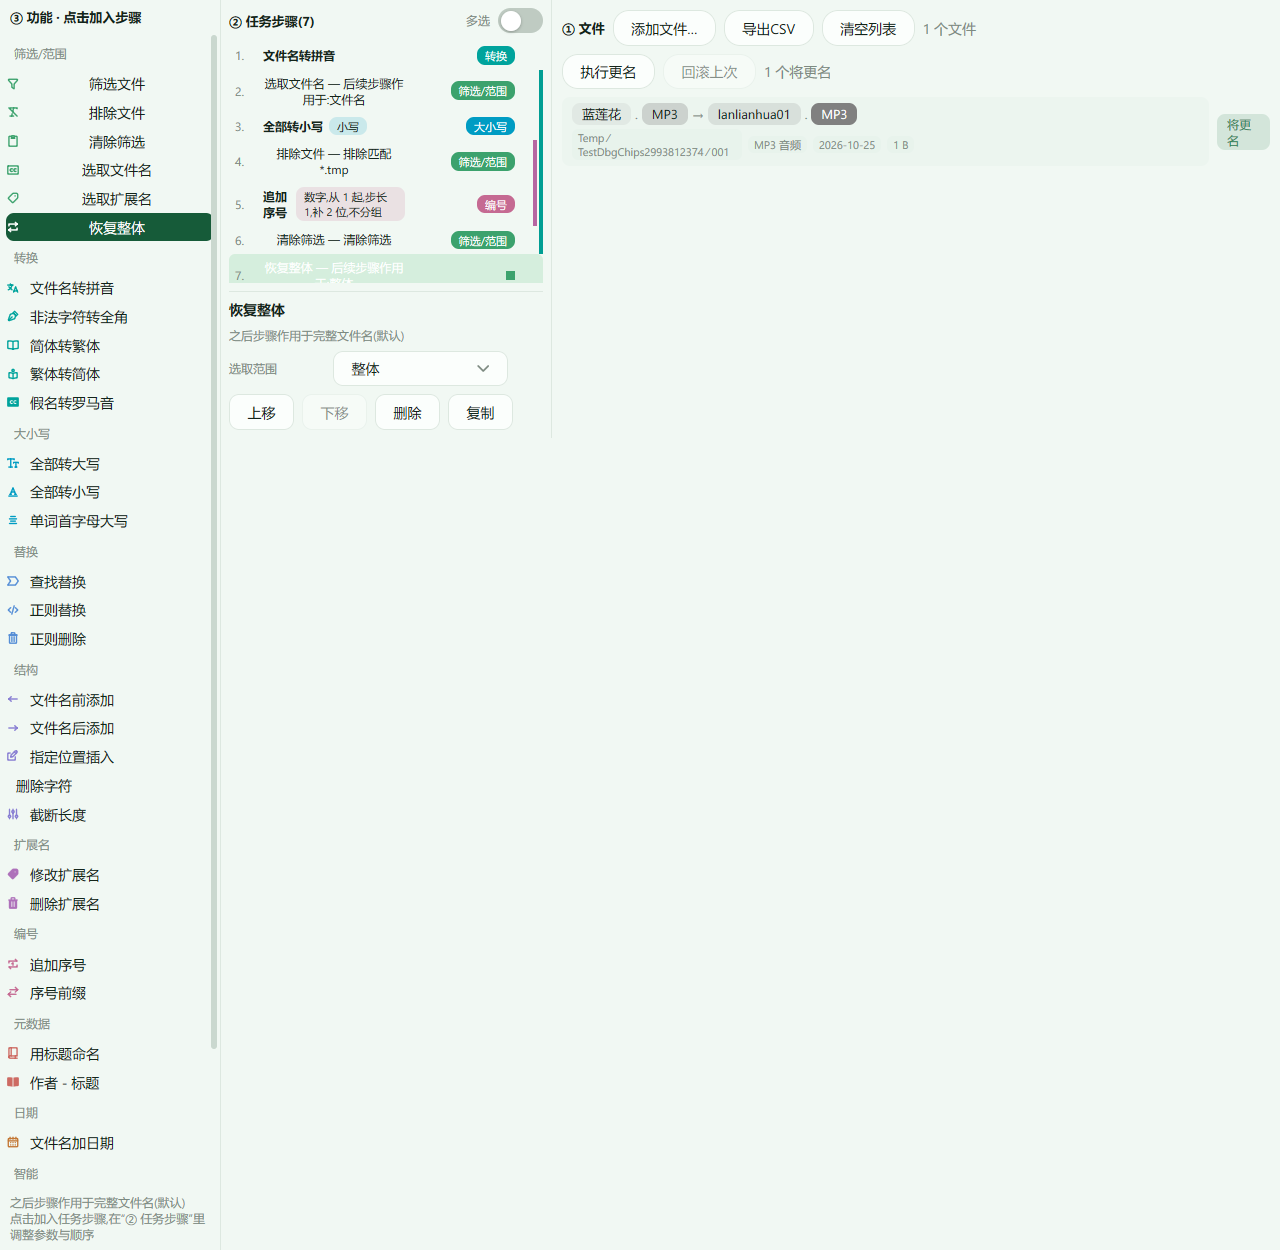
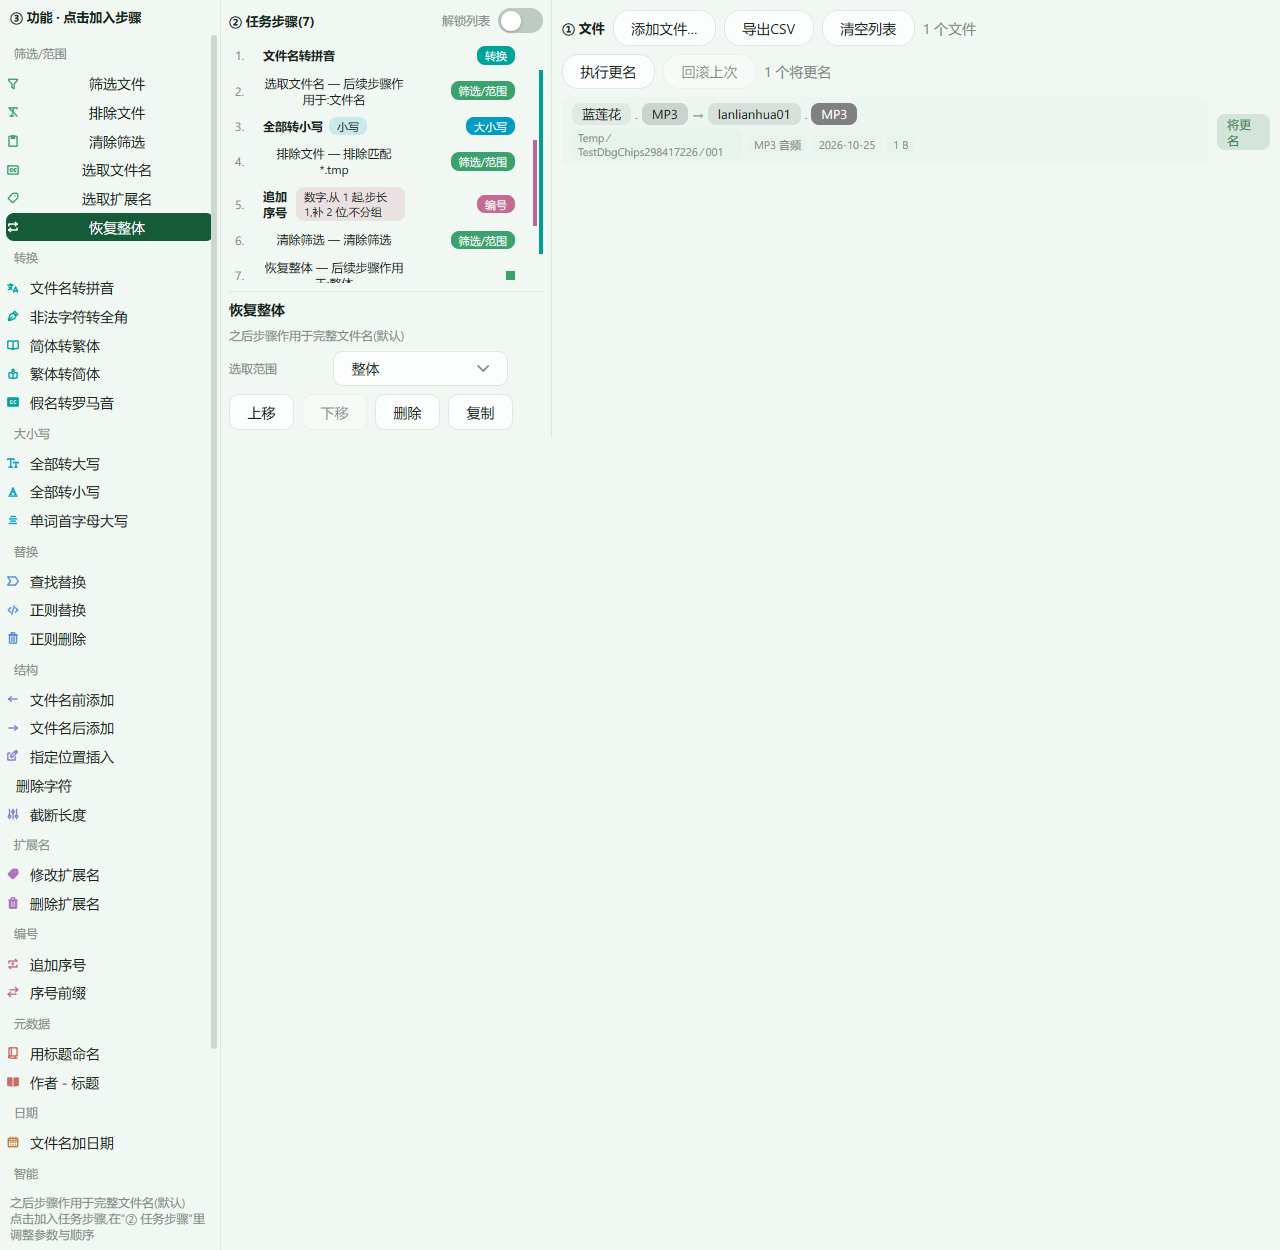
UX: '多选'开关重构为'解锁列表'——锁定=纯预览(无任何选中绘制,浅字问题根除); 解锁=单选参数/Ctrl加选/拖组/批量删除, 选中行原生强调底+全套白字

Changed region(s): [[0.1562, 0.1872, 0.4375, 0.2496], [0.5312, 0.0936, 0.5625, 0.1248], [0.3438, 0.0, 0.375, 0.0312]]

diff --git a/gui/main.go b/gui/main.go
@@ -44,14 +44,14 @@ type app struct {
 	confirmClear bool                // 清空列表 needs a second click
 	saveErr      string              // settings dialog save error, shown in-dialog
 
-	steps      []guiRule // ordered task steps
-	stepSel    int       // selected step, -1 = none
-	stepList   ui.ListState
-	palSel     string            // last catalog op added, highlighted in the list
-	stepsMulti bool              // 多选模式
-	stepUID    int               // 自增步骤身份
-	chosen     ui.Selection[int] // multi-selected step uids
-	palHint    string            // hovered/selected catalog entry's explanation
+	steps        []guiRule // ordered task steps
+	stepSel      int       // selected step, -1 = none
+	stepList     ui.ListState
+	palSel       string            // last catalog op added, highlighted in the list
+	listUnlocked bool              // 解锁列表:可选中/多选/拖动/批量删除
+	stepUID      int               // 自增步骤身份
+	chosen       ui.Selection[int] // multi-selected step uids
+	palHint      string            // hovered/selected catalog entry's explanation
 
 	splitL, splitM float32 // pane divider positions
 	table          ui.ListState
@@ -222,13 +222,16 @@ func (a *app) stepsView(c *ui.Context) {
 		ui.Row(c).Gap(8).AlignItems(ui.Center).Children(func() {
 			ui.Text(c, fmt.Sprintf("② 任务步骤(%d)", len(a.steps))).Bold().FontSize(13)
 			ui.Spacer(c)
-			// 文字也可点击,和开关等效
-			if ui.Text(c, "多选").FontSize(12).TextColor(t.TextMuted).Clicked() {
-				a.stepsMulti = !a.stepsMulti
+			if ui.Text(c, "解锁列表").FontSize(12).TextColor(t.TextMuted).Clicked() {
+				a.listUnlocked = !a.listUnlocked
 				a.chosen.Clear()
+				a.stepSel = -1
 			}
-			ui.Switch(c, &a.stepsMulti)
+			ui.Switch(c, &a.listUnlocked)
 		})
+		if a.listUnlocked {
+			ui.Text(c, "已解锁:点击选中(Ctrl+点击 加选)· 拖动整组移动 · 再点开关锁定").FontSize(11).TextColor(t.TextMuted)
+		}
 		// 选中行自绘浅色底(Selection),不用 List 的深 Accent 绘制:
 		// 选中时行内的彩色胶囊必须保持可读
 		if len(a.steps) == 0 {
@@ -236,25 +239,30 @@ func (a *app) stepsView(c *ui.Context) {
 		} else {
 			dt := a.currentTheme()
 			bars := a.stepRangeBars(dt)
-			a.stepList.Key = func(i int) any { return a.steps[i].opUID }
-			a.stepList.Selected = nil
-			a.stepList.Selection = nil
-			a.stepList.Reorder = nil
-			if a.stepsMulti {
+			if a.listUnlocked {
+				a.stepList.Key = func(i int) any { return a.steps[i].opUID }
+				a.stepList.Selected = &a.stepSel
 				a.stepList.Selection = &a.chosen
 				a.stepList.Reorder = func(rows []int, to int) {
 					a.moveSteps(rows, to)
 				}
 			} else {
-				a.stepList.Selected = &a.stepSel
+				// 锁定=纯预览:无 Key/Selected/Selection,mygo 没有任何
+				// 选中绘制,行文字保持主题深色(对比度问题无从发生)
+				a.stepList.Key = nil
+				a.stepList.Selected = nil
+				a.stepList.Selection = nil
+				a.stepList.Reorder = nil
 			}
 			ui.List(c, &a.stepList, len(a.steps), func(i int) {
 				s := a.steps[i]
 				cat := dt.groupColor(s.opGroup)
 				// 行结构:编号 · 操作名 · 参数值胶囊 · 类别胶囊 · 范围色条。
 				// 扫颜色即可读流程,不用逐个读编号
+				// 高亮选中态只在解锁模式存在;锁定时列表是纯预览
+				hot := a.listUnlocked && (i == a.stepSel || a.chosen.Has(s.opUID))
 				row := ui.Column(c).Fill().Padding(5, 6).Radius(6)
-				if i == a.stepSel {
+				if hot {
 					row.Background(t.Selection)
 				}
 				// 范围色条自绘:两槽固定——右槽=选取范围,左槽=筛选范围;
@@ -270,15 +278,21 @@ func (a *app) stepsView(c *ui.Context) {
 					}
 				})
 				row.Children(func() {
+					// 高亮行:mygo 会把选中行的文字染成强调色(浅),显式
+					// 声明深色,不靠继承
+					numCol, labCol := t.TextMuted, t.Text
+					if hot {
+						numCol, labCol = t.Text, t.Text
+					}
 					ui.Row(c).Gap(6).Children(func() {
-						ui.Text(c, fmt.Sprintf("%d.", i+1)).FontSize(12).TextColor(t.TextMuted).Width(22)
+						ui.Text(c, fmt.Sprintf("%d.", i+1)).FontSize(12).TextColor(numCol).Width(22)
 						// 文字区:处理步骤左对齐,流程控制居中——胶囊区
 						// 固定宽度,居中位置稳定不被挤掉
 						if s.opFlow {
-							ui.Text(c, s.opLabel+" — "+s.summary()).FontSize(12).Fill().TextAlign(ui.Center)
+							ui.Text(c, s.opLabel+" — "+s.summary()).FontSize(12).Fill().TextAlign(ui.Center).TextColor(labCol)
 						} else {
 							ui.Row(c).Fill().Gap(6).Children(func() {
-								ui.Text(c, s.opLabel).FontSize(12).Bold()
+								ui.Text(c, s.opLabel).FontSize(12).Bold().TextColor(labCol)
 								if v := s.summary(); v != "" && v != s.opLabel {
 									ui.Text(c, v).FontSize(11).Padding(2, 8).Radius(8).MaxWidth(150).Ellipsis("…").
 										Background(cat.Alpha(0.16)).TextColor(t.Text)
@@ -302,23 +316,22 @@ func (a *app) stepsView(c *ui.Context) {
 				})
 			}).Gap(0).Grow(1) // 行相接,范围竖线连续;行距由行内 Padding 提供
 		}
-		// 多选模式:批量操作替代单步参数区
-		if a.stepsMulti {
-			ui.Text(c, "Ctrl+点击 加选 · 拖动已选整组移动 · 点击空白处重选").FontSize(11).TextColor(t.TextMuted)
+		// 解锁模式:Ctrl+点击加选、拖动整组、批量删除
+		if a.listUnlocked && a.chosen.Len() > 0 {
 			n := a.chosen.Len()
 			ui.Divider(c)
 			ui.Row(c).Gap(8).AlignItems(ui.Center).Children(func() {
 				ui.Text(c, fmt.Sprintf("已选 %d 步", n)).Bold()
-				if ui.Button(c, "删除所选").Radius(16).Disabled(n == 0).Clicked() {
+				if ui.Button(c, "删除所选").Radius(16).Clicked() {
 					a.deleteChosen()
 				}
-				if ui.Button(c, "全不选").Radius(16).Disabled(n == 0).Clicked() {
+				if ui.Button(c, "全不选").Radius(16).Clicked() {
 					a.chosen.Clear()
 				}
 			})
 		}
-		// detail of the selected step
-		if !a.stepsMulti && a.stepSel >= 0 && a.stepSel < len(a.steps) {
+		// detail of the selected step (锁定时无选中,参数区随之隐藏)
+		if a.stepSel >= 0 && a.stepSel < len(a.steps) {
 			r := &a.steps[a.stepSel]
 			ui.Divider(c)
 			ui.Text(c, r.opLabel).Bold()

diff --git a/gui/main_test.go b/gui/main_test.go
@@ -445,7 +445,7 @@ func TestStepsMultiMode(t *testing.T) {
 		a.stepUID++
 		a.steps[i].opUID = a.stepUID
 	}
-	a.stepsMulti = true
+	a.listUnlocked = true
 	// select steps 1 (pinyin) and 3 (truncate) by uid
 	a.chosen.Add(a.steps[0].opUID)
 	a.chosen.Add(a.steps[2].opUID)
